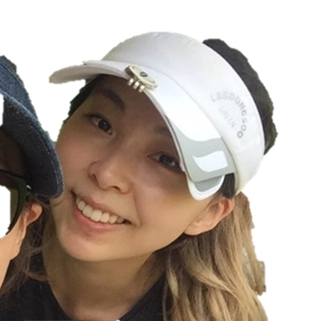
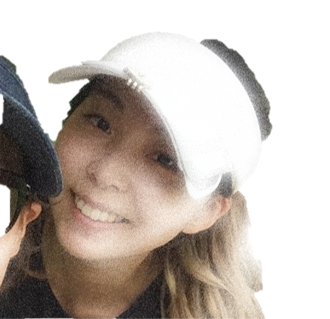
feat: family 사진 ppt로 효과 입힘

diff --git a/js/mainProductData.js b/js/mainProductData.js
@@ -84,21 +84,21 @@ const groomData = [
             type: "groom",
             text: "신랑측 혼주",
         },
-        thumbnail: `${productThumbnailImgSrc}family/groom_02.png`,
+        thumbnail: `${productThumbnailImgSrc}family/groom_03.png`,
         familyName: {
-            family: '신부姑母',
-            name: '조미령'
+            family: '신랑姑母',
+            name: '조미선'
         },
-        account: {
-            bank: '신한',
-            number: '110-123-456789'
-        },
+        // account: {
+        //     bank: '신한',
+        //     number: '110-123-456789'
+        // },
         phone: '010-1234-5678',
         tags: [],
     },
     // label / account 없는 형제자매들
     {
-        thumbnail: `${productThumbnailImgSrc}family/groom_03.png`,
+        thumbnail: `${productThumbnailImgSrc}family/groom_04.png`,
         familyName: {
             family: '형제',
             name: '조재경'
@@ -107,7 +107,7 @@ const groomData = [
         tags: [],
     },
     {
-        thumbnail: `${productThumbnailImgSrc}family/groom_04.png`,
+        thumbnail: `${productThumbnailImgSrc}family/groom_05.png`,
         familyName: {
             family: '남매',
             name: '조아라'

diff --git a/js/mainProduct.js b/js/mainProduct.js
@@ -45,6 +45,10 @@ const initProductSwiper = (type = 'default', sectionName, data) => {
         spaceBetween: 15,
         init: false,
         breakpoints: {
+            360: {
+                slidesPerView: 2.1,
+                spaceBetween: 5,
+            },
             410: {
                 slidesPerView: 2.5,
             },
@@ -113,6 +117,10 @@ const initProductSwiperMultipleWrapper = (type = 'default', sectionName, data = 
             spaceBetween: 15,
             init: false,
             breakpoints: {
+                360: {
+                    slidesPerView: 2.1,
+                    spaceBetween: 5,
+                },
                 410: {
                     slidesPerView: 2.5,
                 },
@@ -182,7 +190,6 @@ const createProductSwiperSection = (sectionName, type = 'default', data) => {
     // 3. swiper객체 생성 및 resize 이벤트
     initProductSwiper(type, sectionName);
 }
-
 
 
 // const createProductSlides = (sectionSwiperWrapper, data) => {

diff --git a/css/layout/main.css b/css/layout/main.css
@@ -578,7 +578,7 @@
 
     @media (max-width: 767px) {
         letter-spacing: 0;
-        font-size: 15px;
+        font-size: 14px;
         text-align: center;
     }
 
@@ -587,8 +587,8 @@
         width: 72px; /* font * 3배 */
         height: 72px;
         @media (max-width: 767px) {
-            width: 45px;
-            height: 45px;
+            width: 52px;
+            height: 52px;
         }
     }
 
